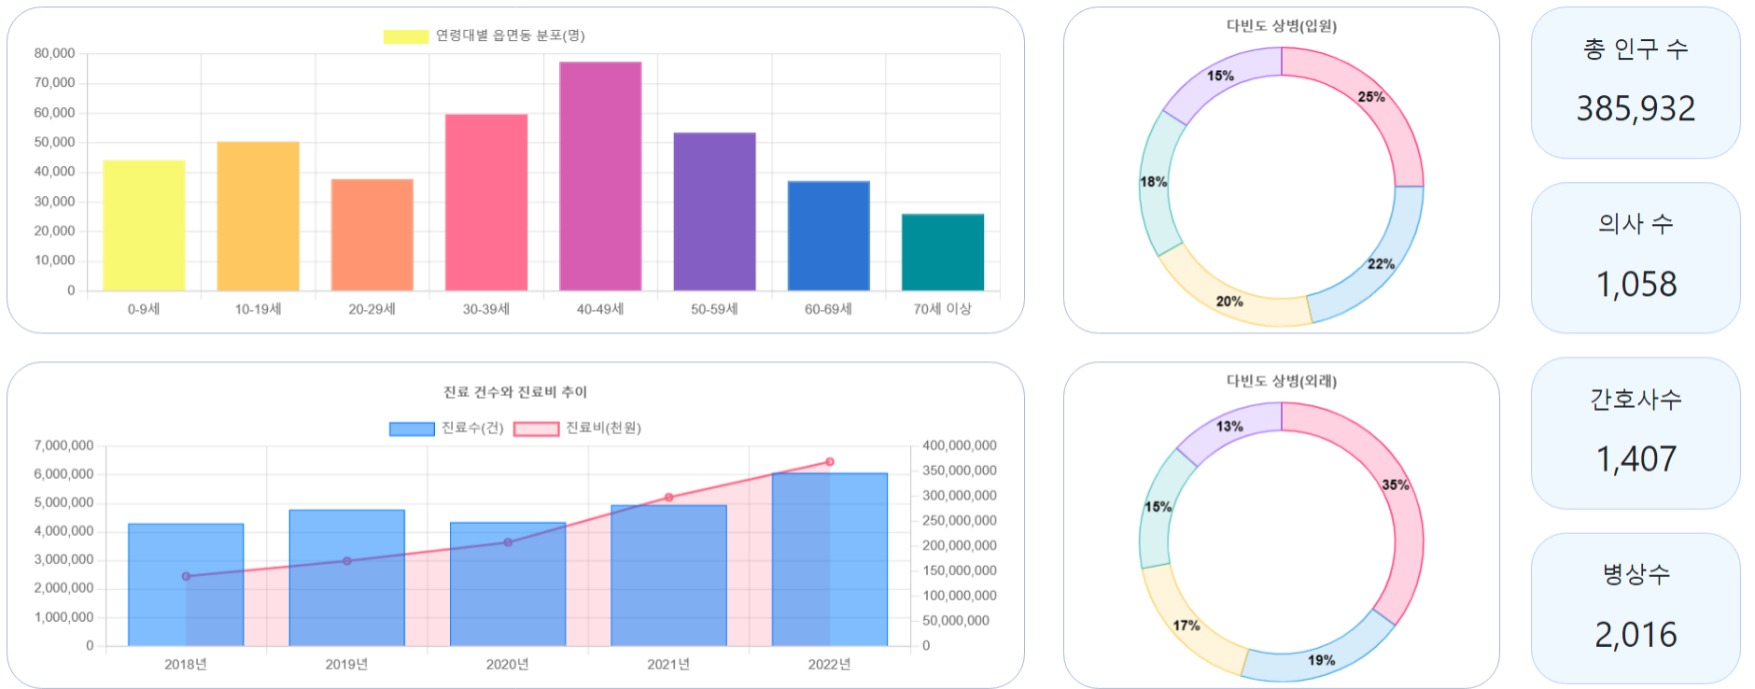
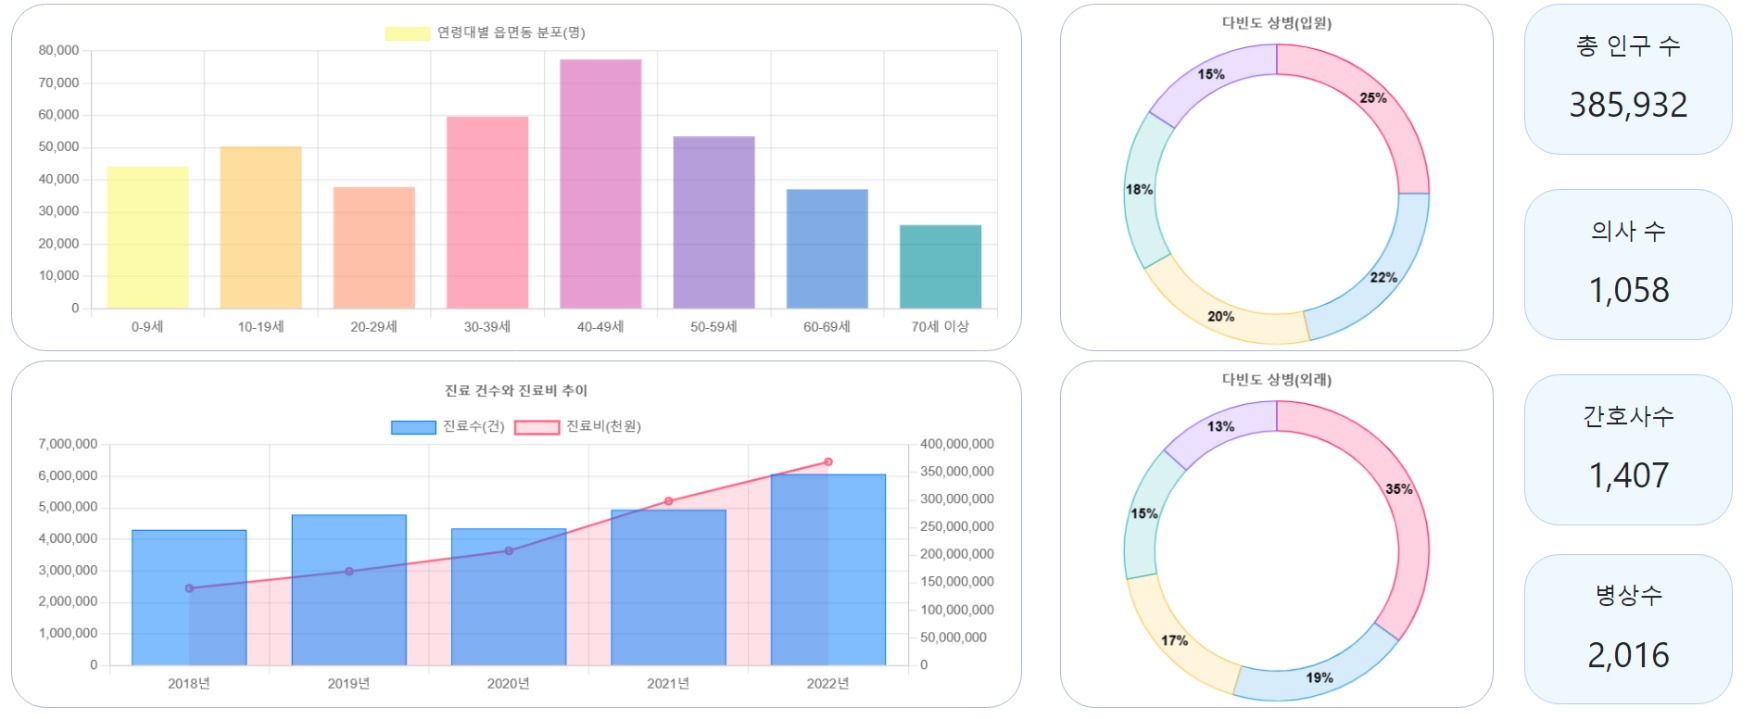
1208

diff --git a/templates/dashboard.html b/templates/dashboard.html
@@ -19,7 +19,7 @@
 
                     const browserData = [{
                         browser: '0-9세',
-                        color: '#F9F871',
+                        color: '#F9F87199',
                         marketshare: {{ mage0s }}+{{ fage0s }},
                         versionData: [
                             {% for i in regionpop %}
@@ -33,7 +33,7 @@
                         ]},
                         {
                         browser: '10-19세',
-                        color: '#FFC75F',
+                        color: '#FFC75F99',
                         marketshare: {{ mage10s }}+{{ fage10s }},
                         versionData: [
                             {% for i in regionpop %}
@@ -47,7 +47,7 @@
                         ]},
                         {
                         browser: '20-29세',
-                        color: '#FF9671',
+                        color: '#FF967199',
                         marketshare: {{ mage20s }}+{{ fage20s }},
                         versionData: [
                             {% for i in regionpop %}
@@ -61,7 +61,7 @@
                         ]},
                         {
                         browser: '30-39세',
-                        color: '#FF6F91',
+                        color: '#FF6F9199',
                         marketshare: {{ mage30s }}+{{ fage30s }},
                         versionData: [
                             {% for i in regionpop %}
@@ -75,7 +75,7 @@
                         ]},
                         {
                         browser: '40-49세',
-                        color: '#D65DB1',
+                        color: '#D65DB199',
                         marketshare: {{ mage40s }}+{{ fage40s }},
                         versionData: [
                             {% for i in regionpop %}
@@ -89,7 +89,7 @@
                         ]},
                         {
                         browser: '50-59세',
-                        color: '#845EC2',
+                        color: '#845EC299',
                         marketshare: {{ mage50s }}+{{ fage50s }},
                         versionData: [
                             {% for i in regionpop %}
@@ -103,7 +103,7 @@
                         ]},
                         {
                         browser: '60-69세',
-                        color: '#2C73D2',
+                        color: '#2C73D299',
                         marketshare: {{ mage60s }}+{{ fage60s }},
                         versionData: [
                             {% for i in regionpop %}
@@ -117,7 +117,7 @@
                         ]},
                         {
                         browser: '70세 이상',
-                        color: '#008E9B',
+                        color: '#008E9B99',
                         marketshare: {{ mage70s }}+{{ fage70s }},
                         versionData: [
                             {% for i in regionpop %}

diff --git a/templates/index.html b/templates/index.html
@@ -250,7 +250,8 @@
       <ul class="item_container">
         <li class="item size2">
             <div class="page">
-                <img src="/static/img/board.jpeg"></img>
+                <img src="/static/img/board.jpeg" style="-webkit-filter: blur(4px);filter: blur(4px);"></img>
+                <img src="/static/img/test.png" style="width: 30%; height: 30%; margin: auto; display: block; top: 40%;"></img>
             </div>
 
             <div class="desc">
@@ -268,7 +269,8 @@
 
         <li class="item size2">
             <div class="page">
-                <img src="/static/img/second.jpeg"></img>
+                <img src="/static/img/second.jpeg" style="-webkit-filter: blur(4px);filter: blur(4px);"></img>
+                <img src="/static/img/test2.png" style="width: 30%; height: 30%; margin: auto; display: block; top: 40%;"></img>
             </div>
             <div class="desc">
                 <a href="/second" class="btn_go">
@@ -285,7 +287,8 @@
 
         <li class="item size2">
             <div class="page">
-                <img src="/static/img/map1.jpeg"></img>
+                <img src="/static/img/map1.jpeg" style="-webkit-filter: blur(4px);filter: blur(4px);"></img>
+                <img src="/static/img/test3.png" style="width: 30%; height: 30%; margin: auto; display: block; top: 40%;"></img>
             </div>
             <div class="desc">
                 <a href="/map" class="btn_go">

diff --git a/templates/base.html b/templates/base.html
@@ -22,7 +22,7 @@
     <style>
         body {
             height:100%;
-            background-color:#F8F8FF;
+            background-color:white;
         }
     /*body {
             background: url("/static/img/bg.png") no-repeat center;
@@ -111,10 +111,10 @@
 {% block content %}
 {% endblock %}
 </div>
- <footer class="mt-3" style=" height:3.9em; text-align:center; width:100%; ">
+     <footer class="mt-3" style="height:8%; text-align:center; width:100%; position:absolute; bottom:0;">
      <nav class="mx-3">
-        <a href="/board">Home</a> |
-        <a href="https://github.com/HYOGANG/KDT_final" target="_blank">Github</a>
+        <a href="/board" class="text-muted">Home</a> |
+        <a href="https://github.com/HYOGANG/KDT_final" target="_blank" class="text-muted">Github</a>
      </nav>
      <p style="font-size:11px; my-2; margin-block-end: 0!important;">
          <span class="mx-3"><i class="fa-regular fa-copyright my-n2"></i>&nbsp;헬스위키</span><br/>

diff --git a/static/css/map.css b/static/css/map.css
@@ -224,7 +224,7 @@
 
 #map {border-radius:10px;}
 .map_wrap, .map_wrap * {margin:0; padding:0;font-family:'Malgun Gothic',dotum,'돋움',sans-serif;font-size:12px;}
-.map_wrap { border-radius:10px; border: 1px solid #ccc; position:relative;width:100%; height:calc(100vh - 9.5rem); margin:0}
+.map_wrap { border-radius:10px; border: 1px solid #ccc; position:relative;width:100%; height:calc(100vh - 7.8rem); margin:0}
 
 /*
 
